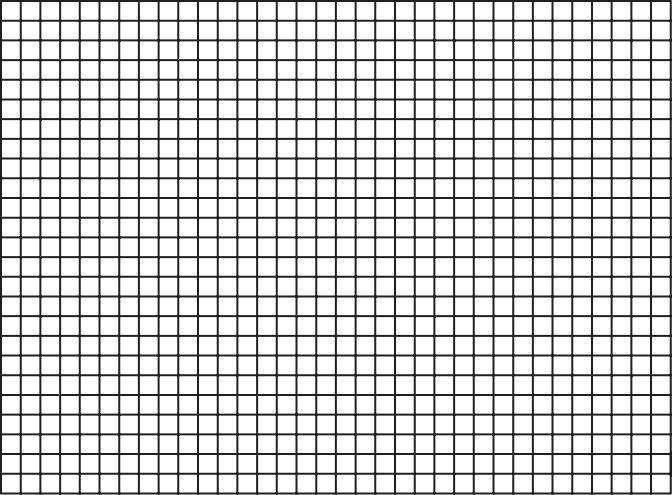
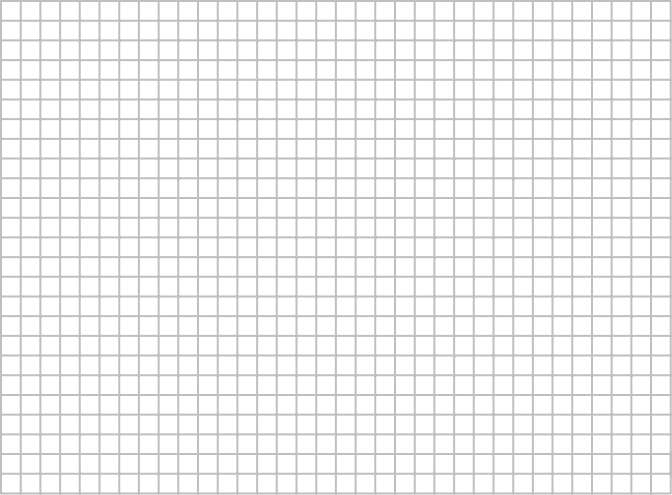
Fix color

Changed region(s): [[0.0, 0.0, 1.0, 1.0]]

diff --git a/lib/javascript/editor/js/Shapes.js b/lib/javascript/editor/js/Shapes.js
@@ -21,14 +21,14 @@
 
  		c.begin();
  		c.setStrokeWidth(4);
- 		c.setStrokeColor('black');
+ 		c.setStrokeColor('#002FA7');
  		c.moveTo(0,0);
  		c.rect(0,0,w,h);
  		c.stroke();
  		c.end();
  		c.begin();
  		c.setStrokeWidth(2);
- 		c.setStrokeColor('black');
+ 		c.setStrokeColor('#002FA7');
  		var value=0;
  		var step=38.6;
  		var step2=19.3;
@@ -37,6 +37,7 @@
  			c.moveTo(startRuler+i,0);
  			c.lineTo(startRuler+i,h/3);
  			c.setFontSize (15);
+ 			c.setFontColor("#002FA7");
  			c.text(startRuler+i,h/3+5,0,0,value.toString(),'center');
  			value+=10;
  			if (value<=150) {
@@ -62,7 +63,7 @@
 
  		c.begin();
  		c.setStrokeWidth(4);
- 		c.setStrokeColor('black');
+ 		c.setStrokeColor('#002FA7');
  		c.moveTo(0,0);
  		c.rect(0,0,w,h);
  		c.stroke();
@@ -70,7 +71,7 @@
 
  		c.begin();
  		c.setStrokeWidth(2);
- 		c.setStrokeColor('black');
+ 		c.setStrokeColor('#002FA7');
  		var value=0;
  		var step=98.75;
  		var step2=24.6875;
@@ -78,6 +79,7 @@
  			c.moveTo(startRuler+i,0);
  			c.lineTo(startRuler+i,h/3);
  			c.setFontSize (15);
+ 			c.setFontColor("#002FA7");
  			c.text(startRuler+i,h/3+5,0,0,value.toString(),'center');
  			c.save();
  			value++;
@@ -117,7 +119,7 @@
  		c.translate(x, y);
 
  		c.setStrokeWidth(2);
- 		c.setStrokeColor('black');
+ 		c.setStrokeColor('#002FA7');
  		c.begin();
  		c.moveTo(0,h-75);
  		c.arcTo(r, r, 0, 0, 1,w,h-75);
@@ -129,7 +131,7 @@
 
  		c.begin();
  		c.setStrokeWidth(1);
- 		c.setStrokeColor('black');
+ 		c.setStrokeColor('#002FA7');
  		c.moveTo(75,h-100);
  		c.arcTo(75,75, 0, 0, 1,w-75,h-100);
  		c.stroke();
@@ -149,6 +151,7 @@
  			var y2=r-(r-20)*findY(i);
  			var x3=r+(r-40)*findX(i);
  			var y3=r-(r-40)*findY(i);
+ 			c.setFontColor("#002FA7");
  			c.text(x3,y3-10,0,0,i.toString(),'center');
  			c.moveTo(x2,y2);
  			c.lineTo(x1,y1);
@@ -172,7 +175,7 @@
  		this.y1=y6;
  		c.setStrokeWidth(3);
  		c.ellipse(x6-5, y6-5,10,10);
- 		c.setFillColor("black");
+ 		c.setFillColor("#002FA7");
  		c.setStrokeWidth(3);
  		c.fillAndStroke();
  		c.save();
@@ -196,7 +199,7 @@
 
  		c.begin();
  		c.setStrokeWidth(1);
- 		c.setStrokeColor('black');
+ 		c.setStrokeColor('#002FA7');
  		c.moveTo(0,200);
  		c.rect(0,200,400,35);
  		c.stroke();
@@ -204,7 +207,7 @@
 
  		c.begin();
  		c.setStrokeWidth(2);
- 		c.setStrokeColor('black');
+ 		c.setStrokeColor('#002FA7');
  		c.moveTo(w,h);
  		c.rect(w-30,h-30,30,30);
  		c.stroke();

diff --git a/lib/javascript/editor/js/Actions.js b/lib/javascript/editor/js/Actions.js
@@ -2017,7 +2017,7 @@ this.addAction(
 			var symbol2 = new mxCell(
 				"",
 				new mxGeometry(0.95, 0, 20, 20),
-				"editable=0;resizable=0;aspect=fixed;rotationEnabled=0;constituent=1;"
+				"editable=0;resizable=0;aspect=fixed;rotationEnabled=0;constituent=1;strokeColor=#002FA7;fontColor=#002FA7"
 				);
 			symbol2.value = "X";
 			symbol2.identity = "hide-ruler";
@@ -2287,7 +2287,7 @@ function processTransferRuler(
 	var symbol2 = new mxCell(
 		"",
 		new mxGeometry(0.95, 0.1, 20, 20),
-		"editable=0;resizable=0;aspect=fixed;rotationEnabled=0;"
+		"editable=0;resizable=0;aspect=fixed;rotationEnabled=0;strokeColor=#002FA7;fontColor=#002FA7"
 		);
 	symbol2.value = "X";
 	symbol2.identity = "hide-ruler";
@@ -2298,7 +2298,7 @@ function processTransferRuler(
 	var symbol = new mxCell(
 		"",
 		new mxGeometry(1, 1, 50, 20),
-		"editable=0;resizable=0;aspect=fixed;rotationEnabled=0;"
+		"editable=0;resizable=0;aspect=fixed;rotationEnabled=0;strokeColor=#002FA7;fontColor=#002FA7"
 		);
 	symbol.value = value;
 	symbol.identity = "ruler-" + typeRuler;

diff --git a/application/views/Head.php b/application/views/Head.php
@@ -1,4 +1,4 @@
-<?php $version = '1.3.5' ?>
+<?php $version = '1.3.6' ?>
 <title>Math Manipulation</title>
 <meta name="viewport" content="width=device-width, initial-scale=1.0, maximum-scale=1.0, user-scalable=no">
 <meta http-equiv="Content-Type" content="text/html; charset=utf-8">
